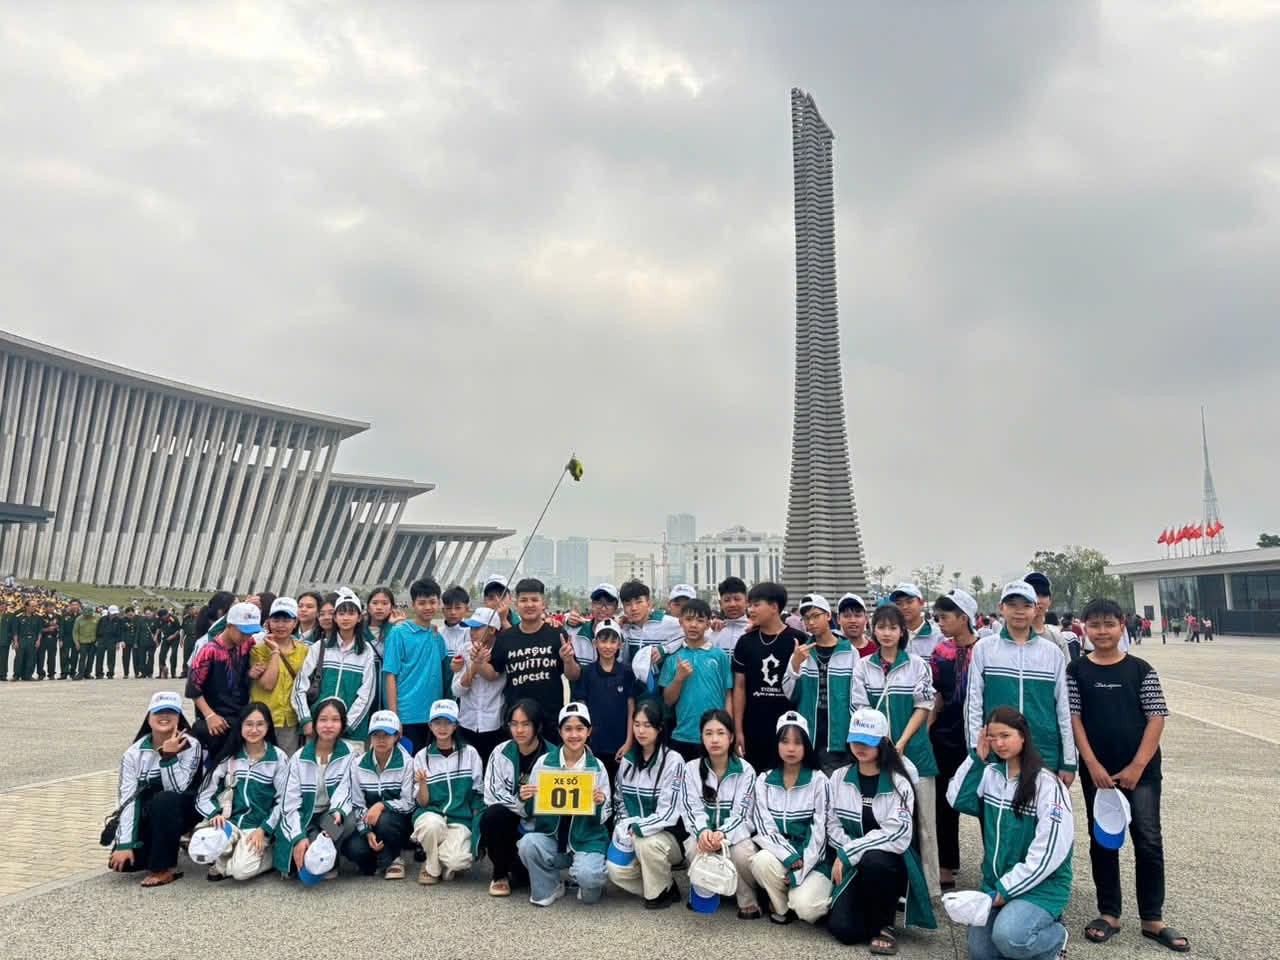
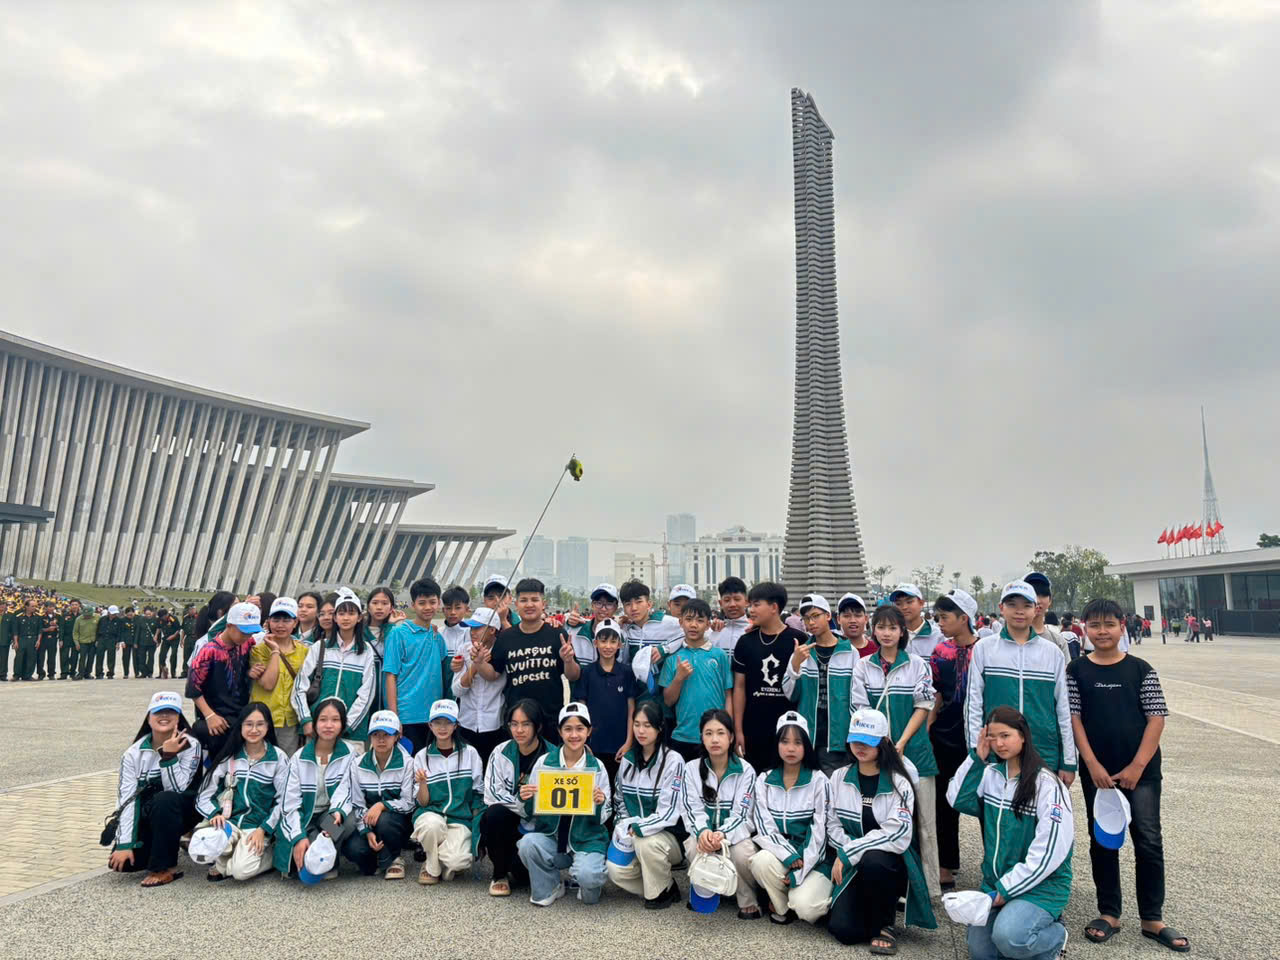
new update

Changed region(s): [[0.3125, 0.625, 0.3438, 0.7188], [0.4062, 0.8125, 0.4688, 0.8438], [0.0312, 0.625, 0.0625, 0.6562]]

diff --git a/script.js b/script.js
@@ -135,21 +135,21 @@ const CONFIG = {
 
     gallery: [
 
-        "assets/anh/lop8.jpg",
+        "assets/anh/lop7td.jpg",
 
-        "assets/anh/lop8voithayduc.jpg",
+        "assets/anh/mualop8.jpg",
+
+        "assets/anh/snhatbanh.jpg",
+
+        "assets/anh/xetang.jpg",
+
+        "assets/anh/anhl8.jpg",
 
         "assets/anh/ditn.jpg",
 
-        "assets/anh/sinhnhat.jpg",
-
-        "assets/anh/btqsvn.jpg",
-
-        "assets/anh/0437dfa1-b52a-44d7-ade7-13d249cf5d1a.jpg",
-
         "assets/anh/IMG_20260329_135459_429.jpg",
 
-        "assets/gallery/08.jpg",
+        "assets/anh/idk.jpg",
 
         "assets/gallery/09.jpg",
 
